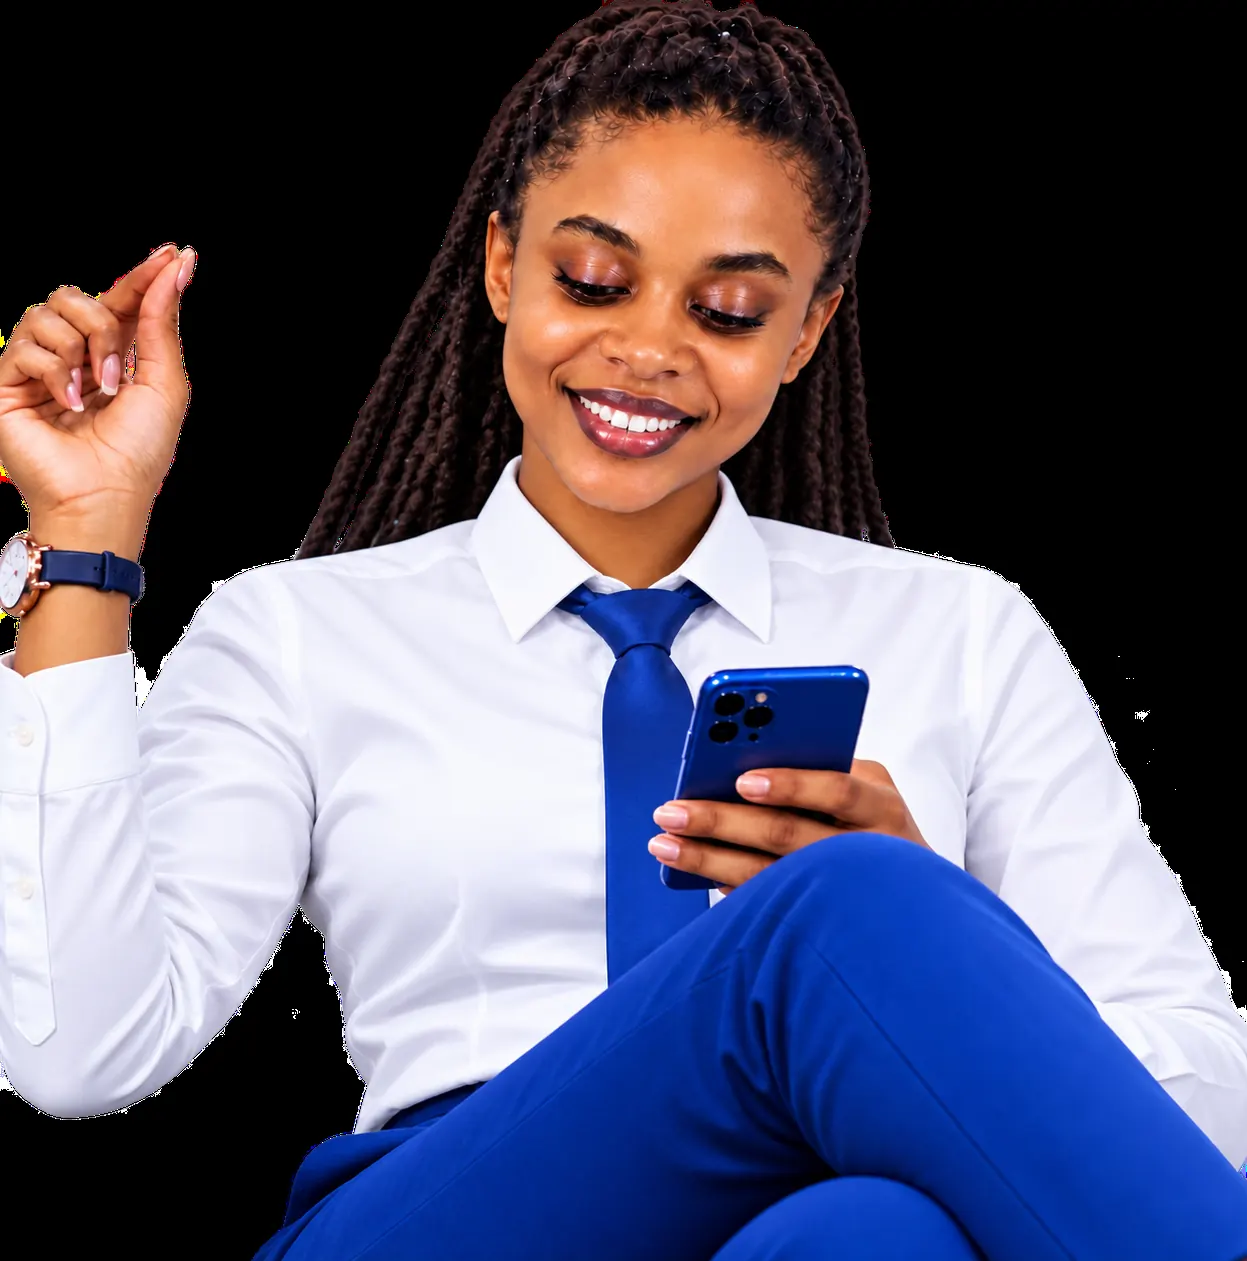
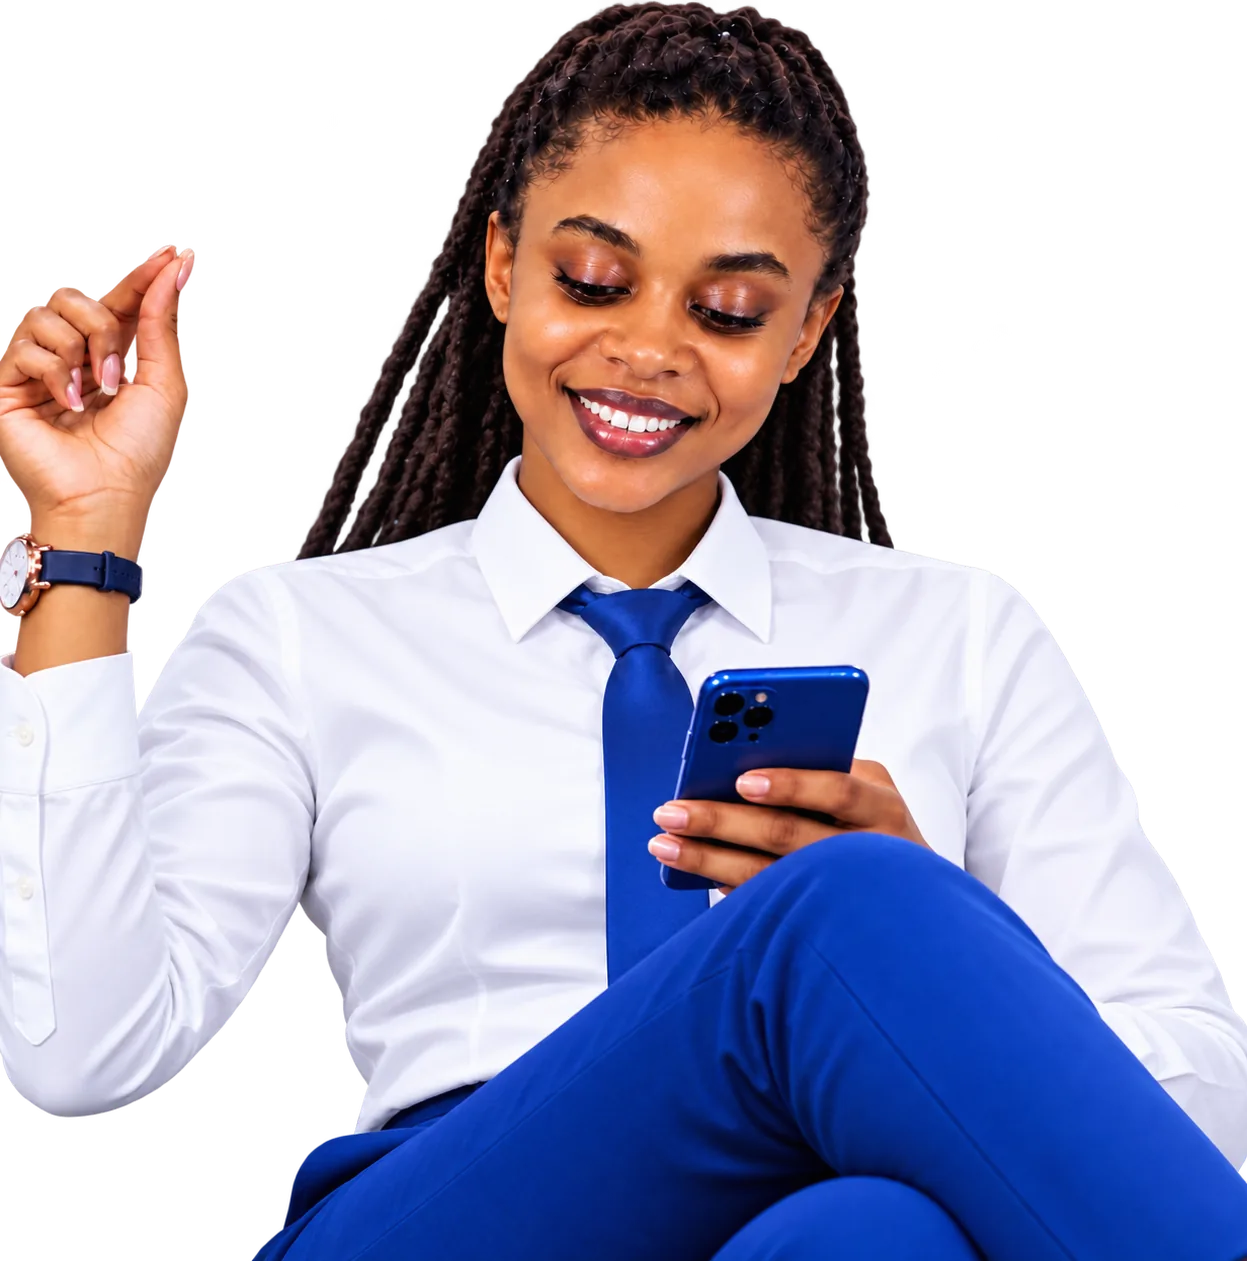
Preserve RGBA transparency on whyChooseWoman WebP and fix Super Admin pricing plan ID/tier matching

diff --git a/frontend/src/assets/optimized/imageManifest.js b/frontend/src/assets/optimized/imageManifest.js
@@ -47,7 +47,7 @@ export const OPTIMIZED_IMAGES = {
     small: whyChooseWoman_480w,
     large: whyChooseWoman_1440w,
     srcSet: whyChooseWoman_480w + " 480w" + ", " + whyChooseWoman_960w + " 960w" + ", " + whyChooseWoman_1440w + " 1440w",
[1 lines of base64/hex data omitted]
+    lqip: "",
     width: 1247,
     height: 1261
   },

diff --git a/backend/app/routes/super_admin.py b/backend/app/routes/super_admin.py
@@ -638,10 +638,25 @@ def update_pricing_plan(plan_id: str, validated_data: PricingPlanUpdateSchema):
     )
 
     patch_fields = validated_data.model_dump(exclude_none=True)
+    target_norm = str(plan_id or "").strip().lower()
     updated_plan = None
     for idx, plan in enumerate(plans):
-        if str(plan.get("id")) == str(plan_id):
-            plans[idx] = {**plan, **patch_fields}
+        p_id = str(plan.get("id") or "").strip().lower()
+        p_tier = str(plan.get("tier") or "").strip().lower()
+        p_name = str(plan.get("name") or "").strip().lower()
+        if (
+            p_id == target_norm
+            or p_tier == target_norm
+            or p_id.replace("plan-", "") == target_norm.replace("plan-", "")
+            or (target_norm and target_norm in p_name)
+        ):
+            merged = {**plan, **patch_fields}
+            # Keep priceRWF and monthlyPriceRWF in sync for all consumers
+            if "priceRWF" in patch_fields and "monthlyPriceRWF" not in patch_fields:
+                merged["monthlyPriceRWF"] = patch_fields["priceRWF"]
+            elif "monthlyPriceRWF" in patch_fields and "priceRWF" not in patch_fields:
+                merged["priceRWF"] = patch_fields["monthlyPriceRWF"]
+            plans[idx] = merged
             updated_plan = plans[idx]
             break
 
